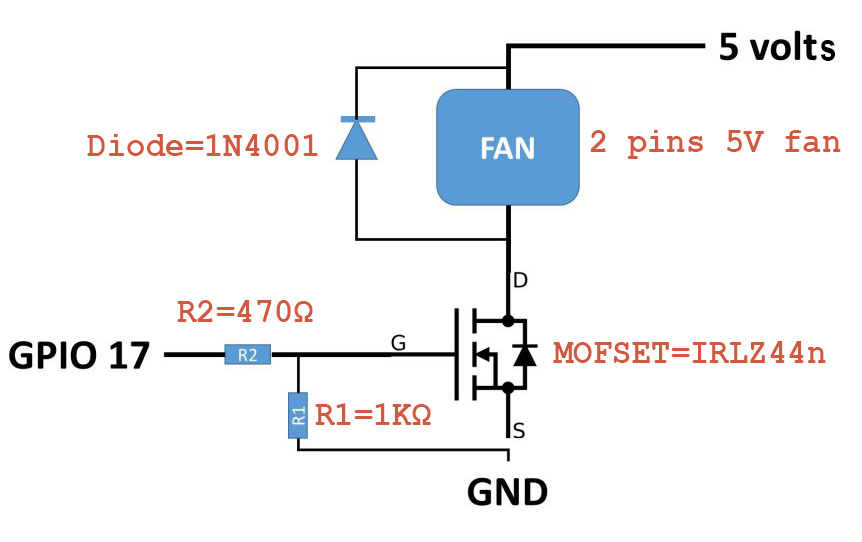
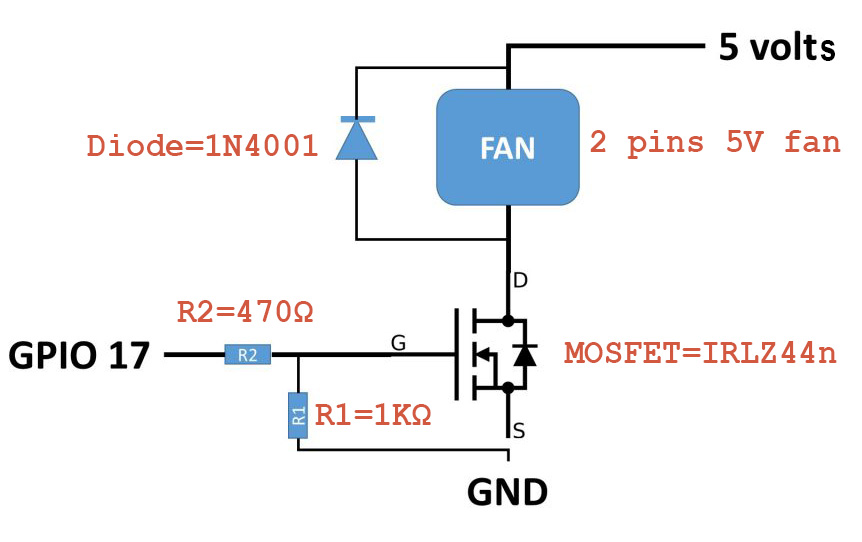
Fix MOSFET name

Changed region(s): [[0.6334, 0.6199, 0.9652, 0.679]]

diff --git a/pwm_mosfet_GPIO_17.py b/pwm_mosfet_GPIO_17.py
@@ -13,8 +13,8 @@ fanPin = 17 # The pin ID, edit here to change it
 
 desiredTemp = 45 # The maximum temperature in Celsius after which we trigger the fan
 
-logFile = "/var/log/pwm_mofset_GPIO_17.log" #Path to logfile
-speedFile = "/var/log/pwm_mofset_GPIO_17.speed" #Path to speed file
+logFile = "/var/log/pwm_mosfet_GPIO_17.log" #Path to logfile
+speedFile = "/var/log/pwm_mosfet_GPIO_17.speed" #Path to speed file
 
 fanSpeed=100
 sum=0
